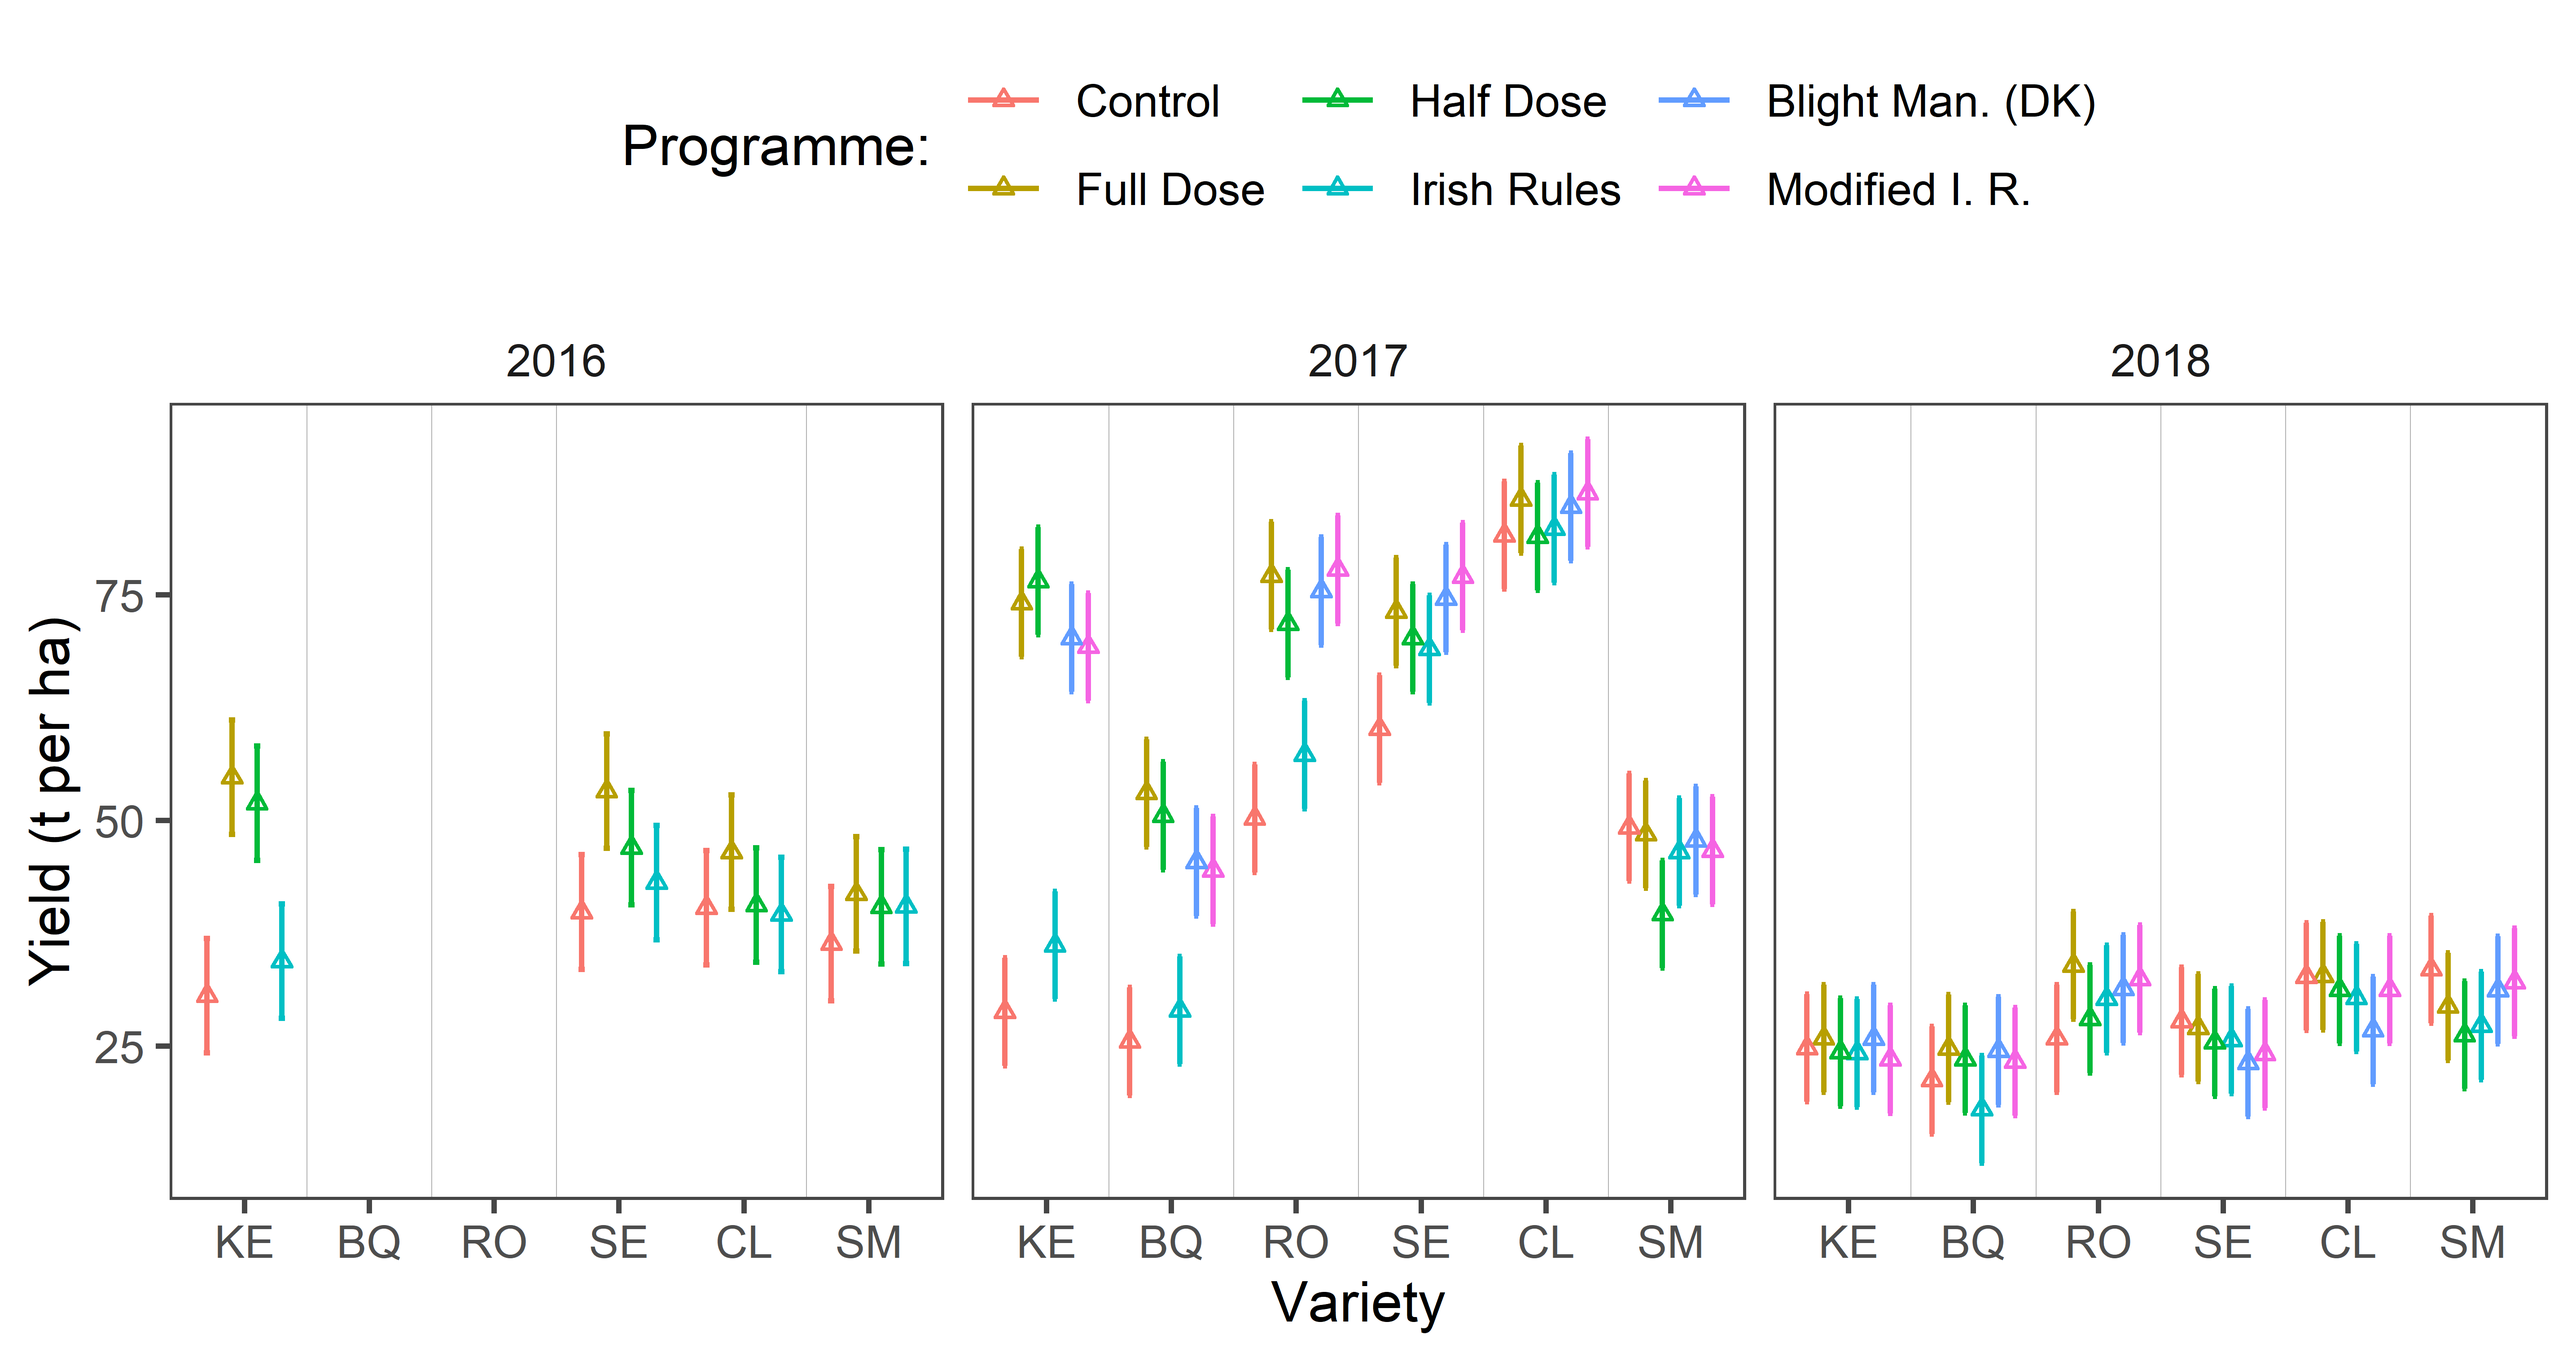
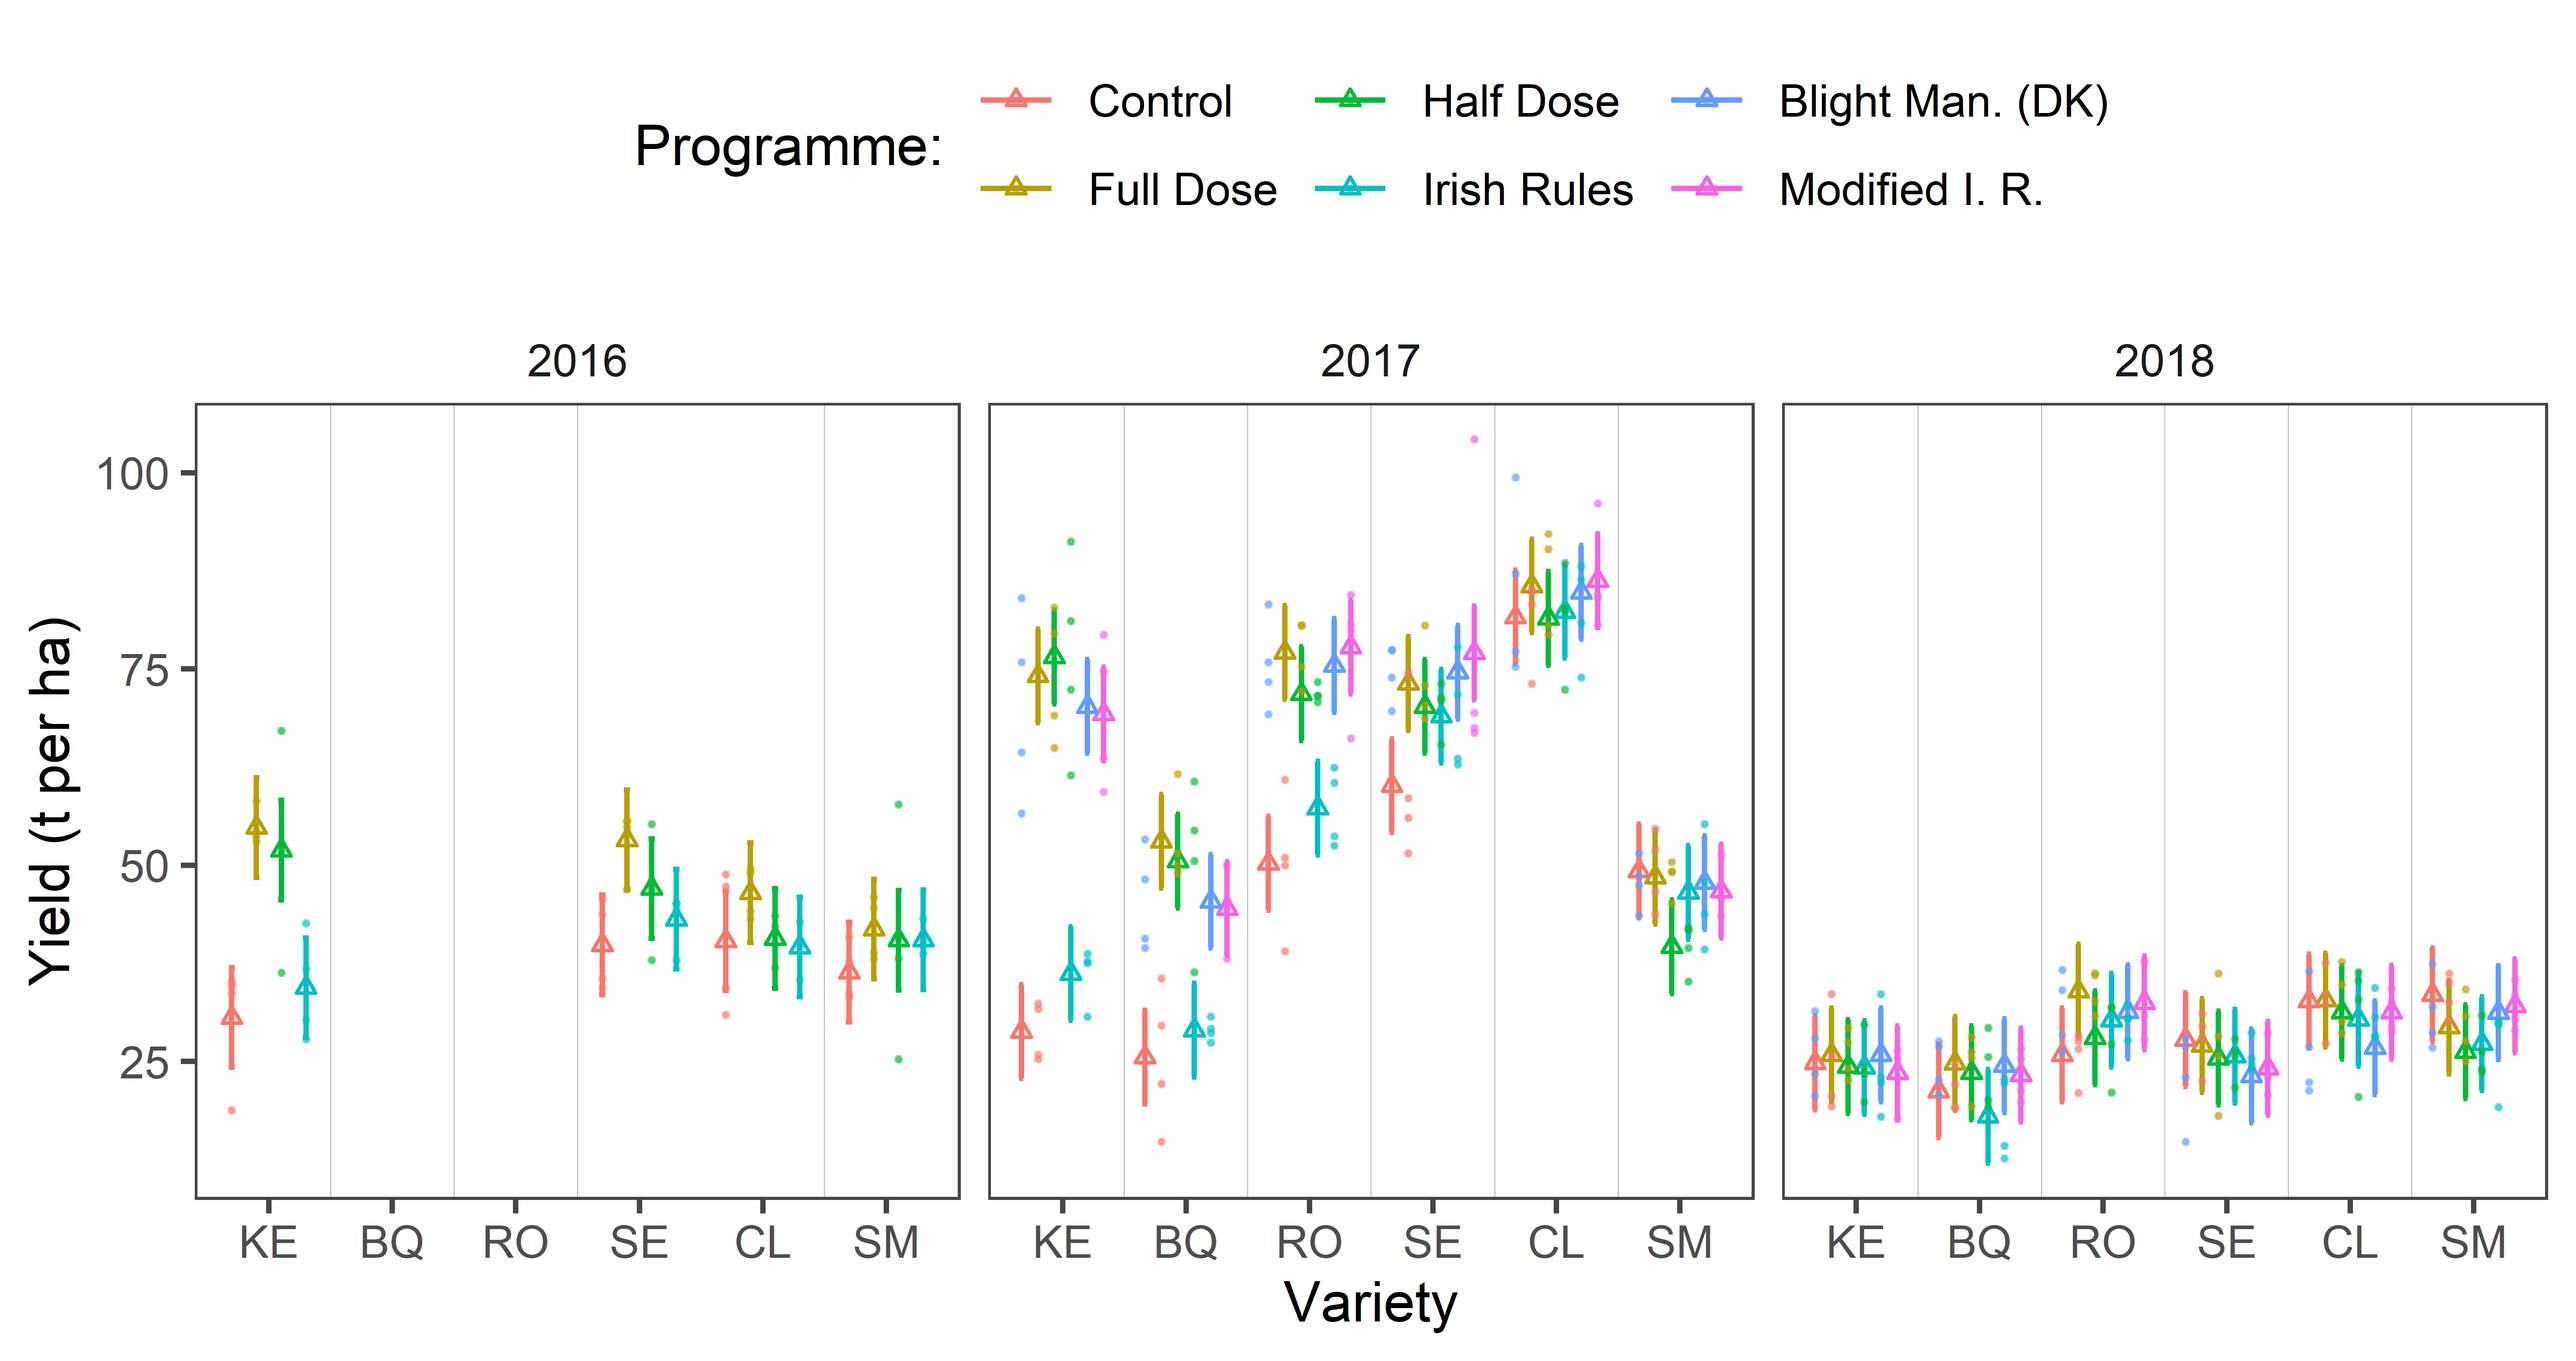
yld

diff --git a/docs/yield.html b/docs/yield.html
@@ -717,13 +717,13 @@ dodging &lt;-  .8
     position = position_dodge(width = dodging)
   ) +
   facet_wrap(~ year, nrow = 1) +
-  # geom_point(
-  #   data = subset(audpc_data),
-  #   aes(y = rAUDPC_adj, color = treatment, group = treatment),
-  #   size = .2,
-  #   alpha = .5,
-  #   position = position_dodge(width = dodging)
-  # ) +
+  geom_point(
+    data = yld,
+    aes(y = marketable, color = treatment, group = treatment),
+    size = .2,
+    alpha = .5,
+    position = position_dodge(width = dodging)
+  ) +
   scale_fill_brewer(&quot;Programme:&quot;, palette = &quot;Dark2&quot;) +
   theme_article() +
   theme(legend.position = &quot;top&quot;) +
